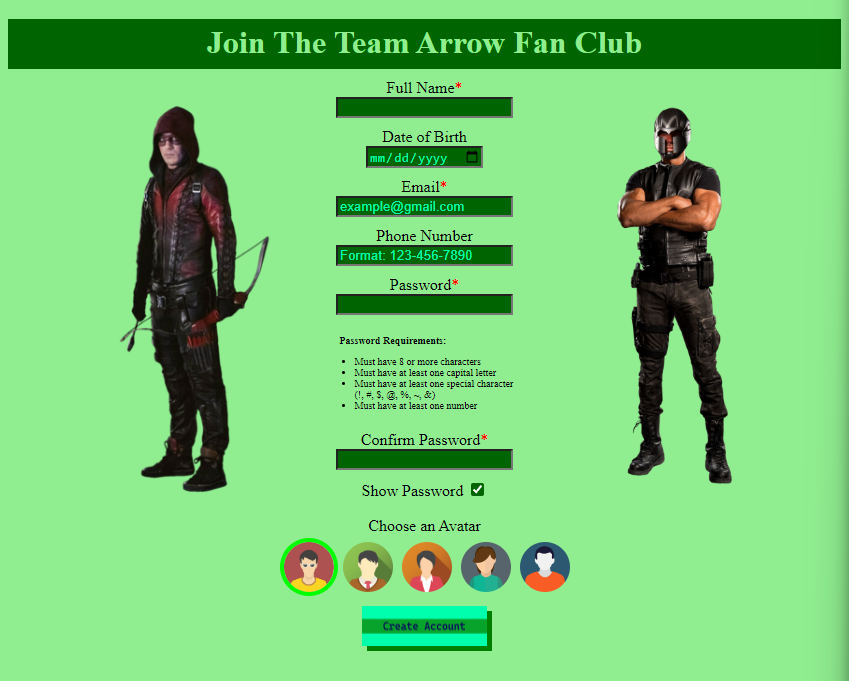
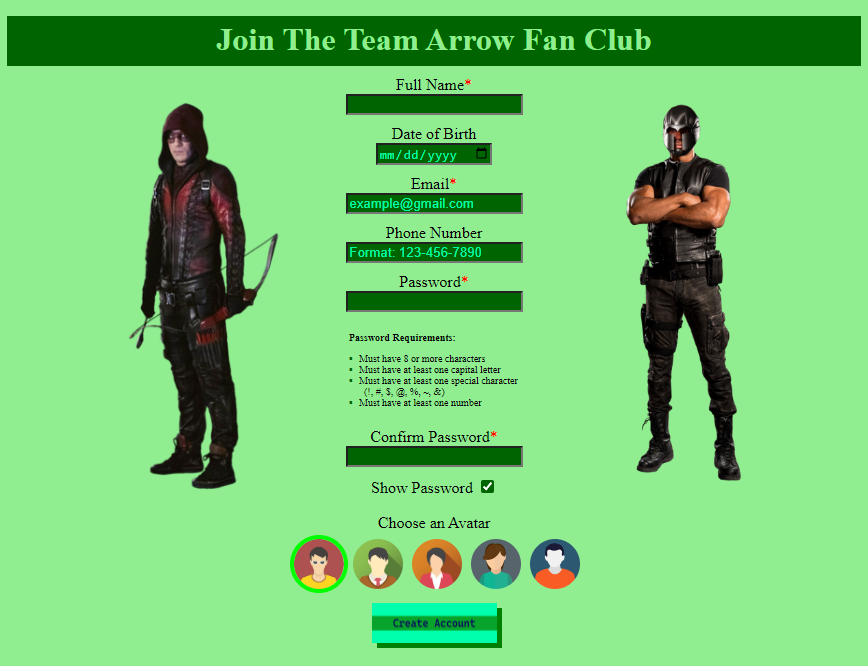
Updated password requirements appearance

diff --git a/Account_Manager/Public/CSS/create_account.css b/Account_Manager/Public/CSS/create_account.css
@@ -15,6 +15,7 @@ body {
     background-color: lightgreen;
 }
 
+/* password requirments visual */
 #password_specs {
     width: 300px;
     font-size: x-small;
@@ -30,6 +31,19 @@ body {
     text-align: left;
     margin-left: 65px;
     font-weight: bold;
+}
+
+ul {
+    list-style: none;
+}
+
+ul li::before {
+    content: "\25AA";
+    color: darkgreen;
+    font-weight: bold;
+    display: inline-block;
+    width: 1em;
+    margin-left: -1.5em;
 }
 
 /* forms */
